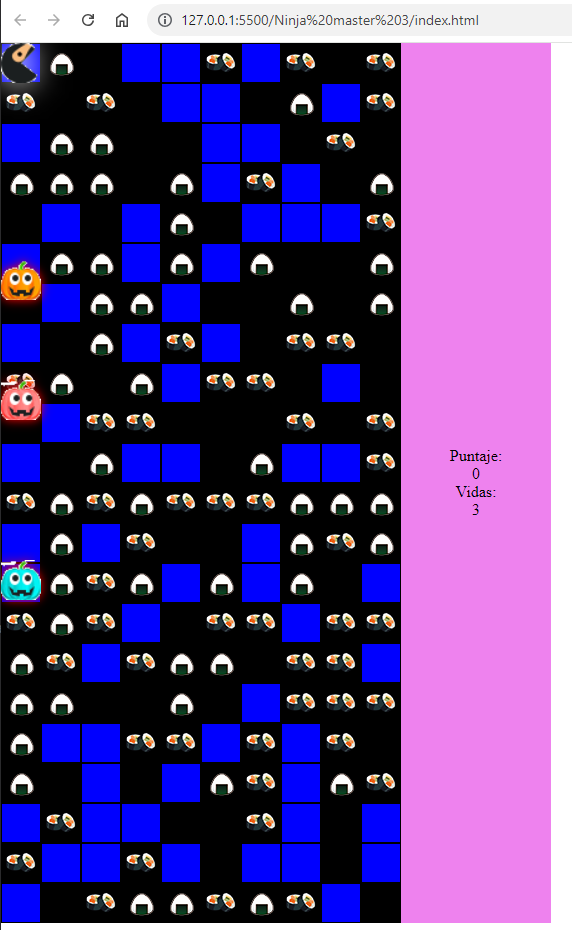
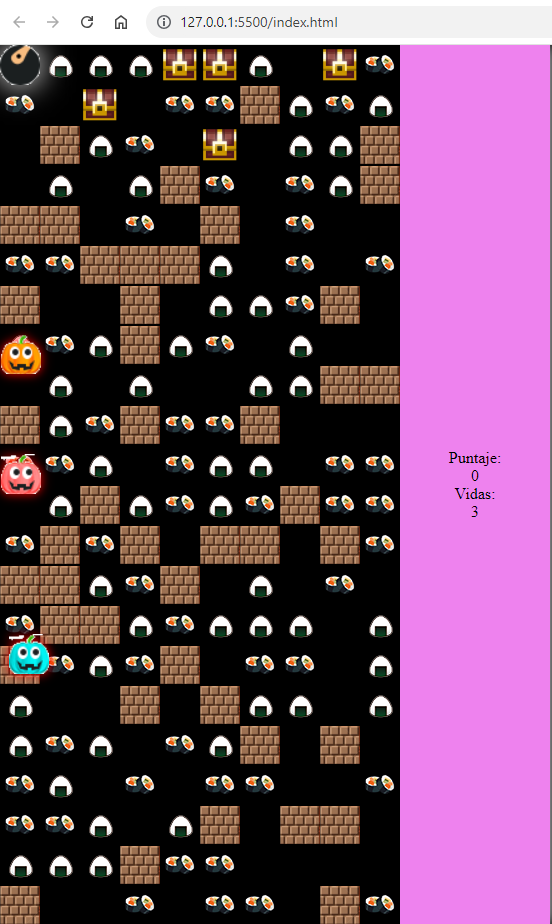
cambios

diff --git a/index.html b/index.html
@@ -19,11 +19,16 @@
 		}
 
 		.wall {
-			background-color: blue;
+
 			width: 40px;
 			height: 40px;
 
-			border: 1px solid black;
+
+
+			background-image: url(img/ladrillo.png);
+			background-position: center;
+			background-repeat: no-repeat;
+			background-size: contain;
 
 		}
 
@@ -58,6 +63,23 @@
 
 			background-image: url('img/onigiri.png');
 			background-position: center;
+			background-repeat: no-repeat;
+
+
+			border: 1px solid black;
+
+
+		}
+
+		.cofre {
+
+			background-color: rgb(0, 0, 0);
+			width: 40px;
+			height: 40px;
+
+			background-image: url('img/cofre.png');
+			background-position: center;
+			background-size: contain;
 			background-repeat: no-repeat;
 
 
@@ -151,12 +173,16 @@
 
 		.container {
 			display: flex;
+			box-shadow: 0px 0px 15px white;
+
+
 		}
 
 		.hidden {
 			display: none;
 		}
-		#fin-juego{
+
+		#fin-juego {
 			background-color: black;
 			color: red;
 			position: absolute;
@@ -168,22 +194,30 @@
 			font-weight: bold;
 			font-size: 25px;
 		}
-		.boton{
+
+		.boton {
 			padding: 10px 20px;
 			margin-top: 10px;
 			margin-left: 10px;
 			cursor: pointer;
 		}
-		.ninjacito{
+
+		.ninjacito {
 			width: 80px;
 			height: 80px;
 			background-image: url('img/ninja.gif');
 			background-size: contain;
 		}
+
+		#body {
+			background-color: black;
+			display: flex;
+
+		}
 	</style>
 </head>
 
-<body>
+<body id="body">
 	<div class="container">
 		<div id="world"></div>
 		<div class="puntaje">
@@ -201,7 +235,7 @@
 		<p>GAME OVER</p>
 		<p>Murio 3 Veces</p>
 		<div class="ninjacito"></div>
-		<p>Su puntaje fue de: <span id="puntos">0</span> puntos comiendo sushi y onigiris</p>
+		<p>Su puntaje fue de: <span id="puntos">0</span> puntos </p>
 		<a href=""><button class="boton">¡Volver a Jugar!</button></a>
 	</div>
 
@@ -209,19 +243,28 @@
 </body>
 <script type="text/javascript">
 	let puntaje = 0
+	let position = 'right'
 
-	
-	
+
 
 	const generateRandomWorld = () => {
 		const world = [];
 		const numRows = 22;
 		const numColumns = 10;
-
+		let cofres = 0
 		for (let i = 0; i < numRows; i++) {
 			const row = [];
 			for (let j = 0; j < numColumns; j++) {
-				const randomValue = Math.floor(Math.random() * 4); // Genera un número aleatorio entre 0 y 3 inclusive
+				let randomValue = 0
+				if (cofres < 5) {
+					randomValue = Math.floor(Math.random() * 5); // Genera un número aleatorio entre 0 y 4 inclusive
+					if (randomValue == 4) cofres++
+				} else {
+					randomValue = Math.floor(Math.random() * 4); // Genera un número aleatorio entre 0 y 3 inclusive
+
+				}
+
+
 				row.push(randomValue);
 			}
 			world.push(row);
@@ -236,7 +279,8 @@
 		0: 'blank',
 		1: 'wall',
 		2: 'sushi',
-		3: 'onigiri'
+		3: 'onigiri',
+		4: 'cofre'
 	}
 
 	const drawWorld = () => {
@@ -312,6 +356,16 @@
 
 		character.style.top = `${ninjaman.y * 40}px`
 		character.style.left = `${ninjaman.x * 40}px`
+
+		if (position === "right") {
+			character.style.transform = "rotate(0deg)"; // Sin rotación
+		} else if (position === "down") {
+			character.style.transform = "rotate(90deg)"; // Rotación de 90 grados hacia la derecha
+		} else if (position === "left") {
+			character.style.transform = "rotate(180deg) scaleY(-1)"; // Rotación de 180 grados hacia abajo
+		} else if (position === "up") {
+			character.style.transform = "rotate(-90deg)"; // Rotación de -90 grados hacia la izquierda
+		}
 	}
 
 	const drawFantasmas = (fantasma, x, y) => {
@@ -327,7 +381,7 @@
 		if (e.keyCode == 37) { //LEFT
 			if (world[ninjaman.y][ninjaman.x - 1] != 1 && world[ninjaman.y][ninjaman.x - 1] != null) {
 				ninjaman.x--
-
+				position = 'left'
 			}
 
 
@@ -335,16 +389,19 @@
 		if (e.keyCode == 39) { //RIGHT
 			if (world[ninjaman.y][ninjaman.x + 1] != 1 && world[ninjaman.y][ninjaman.x + 1] != null) {
 				ninjaman.x++
+				position = 'right'
 			}
 		}
 		if (e.keyCode == 40) { //DOWN
 			if (world[ninjaman.y + 1][ninjaman.x] != 1 && world[ninjaman.y + 1][ninjaman.x] != null) {
 				ninjaman.y++
+				position = 'down'
 			}
 		}
 		if (e.keyCode == 38) { //UP
 			if (world[ninjaman.y - 1][ninjaman.x] != 1 && world[ninjaman.y - 1][ninjaman.x] != null) {
 				ninjaman.y--
+				position = 'up'
 			}
 		}
 
@@ -357,6 +414,9 @@
 			if (world[ninjaman.y][ninjaman.x] == 3) {
 				puntaje += 20
 			}
+			if (world[ninjaman.y][ninjaman.x] == 4) {
+				puntaje += 50
+			}
 		}
 
 
@@ -365,8 +425,8 @@
 		drawWorld()
 
 
-		document.getElementById('info').textContent = `${puntaje}`
-		document.getElementById('puntos').textContent = `${puntaje}`
+		document.getElementById('info').textContent = puntaje
+		document.getElementById('puntos').textContent = puntaje
 
 	}
 // Codigo acondicionado por los apuntes de catedra y diseñado por Javier Huebra
